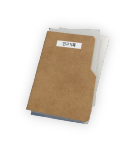
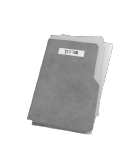
Feat : 인벤토리 정신/현실 배경 다르게 열리게 구현

Changed region(s): [[0.1714, 0.1506, 0.8, 0.8133], [0.7714, 0.3012, 0.8, 0.3916], [0.8, 0.2711, 0.8286, 0.3012]]

diff --git a/Assets/02.Scripts/UI/EvidenceDetail/EvidenceDetailUI.cs b/Assets/02.Scripts/UI/EvidenceDetail/EvidenceDetailUI.cs
@@ -19,7 +19,8 @@ public class EvidenceDetailUI : UIBase
     
     [Header("증거물 상세내용 공통 UI")]
     [SerializeField] private Image _bgImg;
-    [SerializeField] private Sprite _inventoryBgImg;
+    [SerializeField] private Sprite _inventoryBgImgReal;
+    [SerializeField] private Sprite _inventoryBgImgMental;
 
     [Header("Page 증거물")] [SerializeField] private int _curPage;
     [SerializeField] private int _totalPage;
@@ -124,7 +125,14 @@ public class EvidenceDetailUI : UIBase
         {
             if (!UIManager.Instance.isInMap)
             {
-                _bgImg.sprite = _inventoryBgImg;
+                if (evidence.evidenceType == 'R')
+                {
+                    _bgImg.sprite = _inventoryBgImgReal;
+                }
+                else if (evidence.evidenceType == 'M')
+                {
+                    _bgImg.sprite = _inventoryBgImgMental;
+                }
             }
             else
             {
